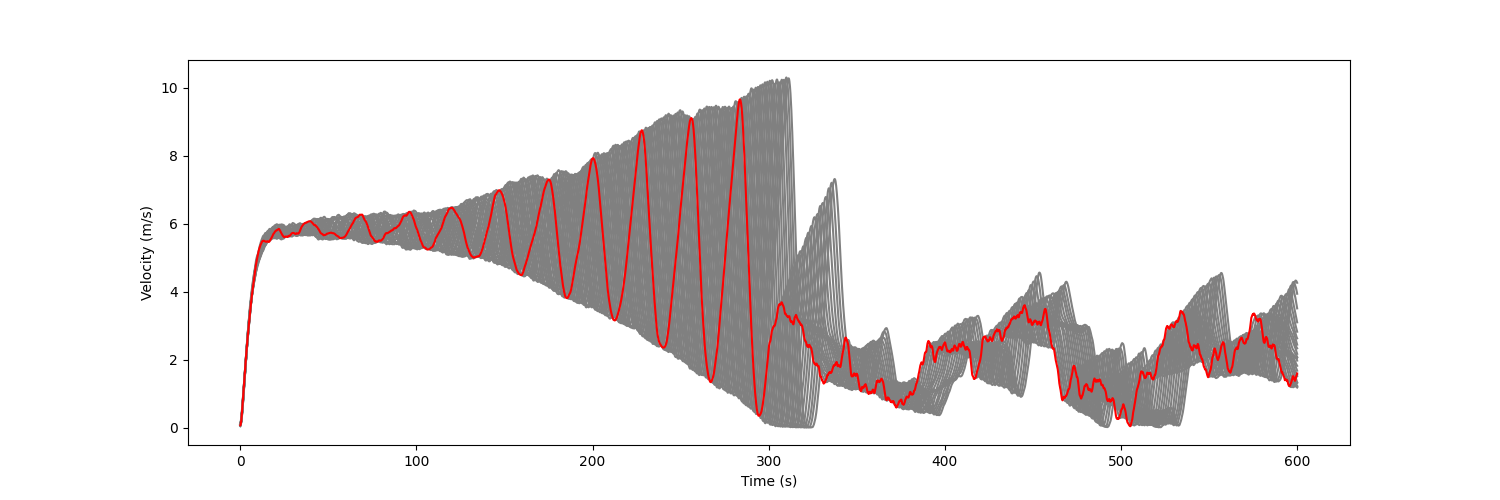
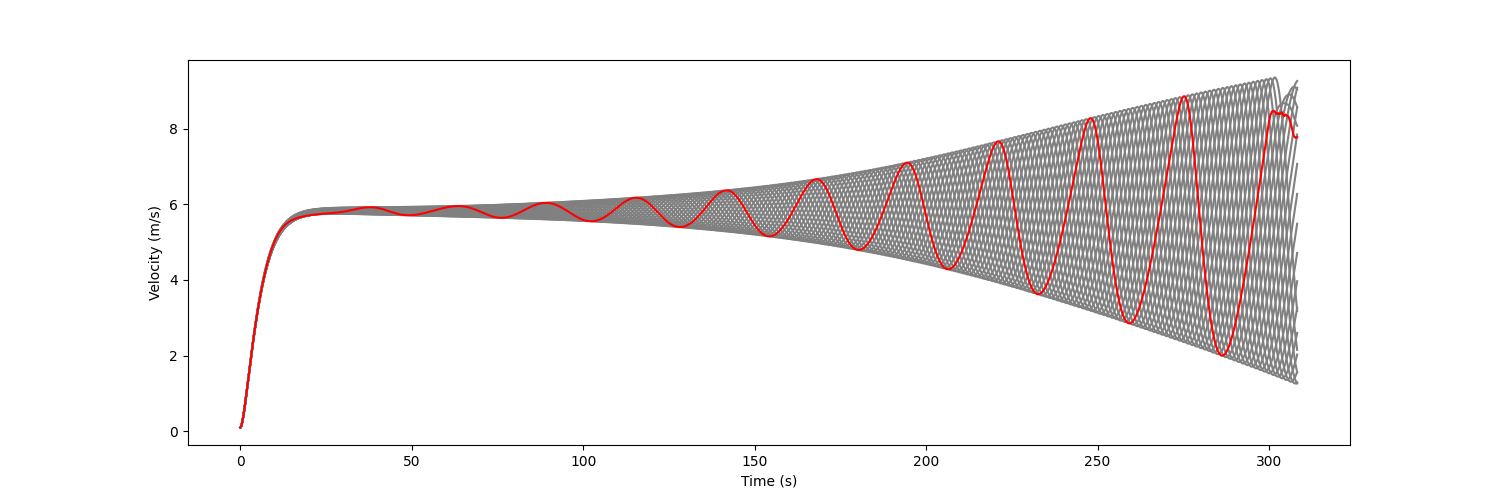
switching branch

diff --git a/Ring_Road/vehicle/vehicle.py b/Ring_Road/vehicle/vehicle.py
@@ -46,7 +46,7 @@ class Car(pygame.sprite.Sprite):
 
         return s
 
-    def idm_control(self):
+    def idm_control(self, noise=0):
         delta_v = self.v - self.front_vehicle.v
 
         s = self.gap_front()
@@ -54,7 +54,7 @@ class Car(pygame.sprite.Sprite):
             s = 0.0001
 
         s_star = s0 + max(0, (self.v * T) + ((self.v * delta_v) / (2 * np.power(a * b, 0.5))))
-        self.acc = a * (1 - np.power(self.v / v0, IDM_DELTA) - np.power(s_star / s, 2)) + np.random.normal(0, 0.2)
+        self.acc = a * (1 - np.power(self.v / v0, IDM_DELTA) - np.power(s_star / s, 2)) + np.random.normal(0, noise)
         old_velocity = self.v
         self.v = max(0, min((old_velocity) + (self.acc * DELTA_T), v0))
         self.acc = (self.v - old_velocity) / DELTA_T  # adjustment to acc due to clamping of velocity
@@ -155,10 +155,10 @@ class Agent(Car):
 
         return self.acc
 
-    def _run_control(self, avg_vel=None):
+    def _run_control(self, avg_vel=None, noise=0):
         accel_action = None
         if self.agent_type == "idm":
-            accel_action = self.idm_control()
+            accel_action = self.idm_control(noise=0)
         elif self.agent_type == "discrete":
             accel_action = self._discrete()
         elif self.agent_type == "continuous":
@@ -179,13 +179,16 @@ class Agent(Car):
         # print("Updated Velocity: {}".format(self.v))
 
     def step(self, eval_mode, action_steps, agent_type, state_extractor, avg_vel):
+        noise = 0
         if eval_mode:
             if action_steps > 3000:
                 self.agent_type = agent_type
+                noise = 0
             else:
                 self.agent_type = "idm"
+                noise = 0.2
 
-        accel_action = self._run_control(avg_vel)
+        accel_action = self._run_control(avg_vel, noise)
         accel_action = state_extractor.failsafe_action(accel_action)
         self._update_vel(accel_action)
         self.update_positions()

diff --git a/Ring_Road/constants.py b/Ring_Road/constants.py
@@ -35,7 +35,7 @@ def clean_image(mycar_image):
                 mycar_image.set_at((x, y), (0, 0, 0, 0))
 
 
-cwd = "/home/vamsi/GitHub/RingRoad-RL"
+cwd = "/home/vamsi/Documents/GitHub/RingRoad-RL"
 
 env_car_image = pygame.image.load(cwd + "/Ring_Road/sprites/env_vehicle.png")
 env_car_image = pygame.transform.scale(env_car_image, (CAR_PIX_LENGTH, CAR_PIX_WIDTH))
